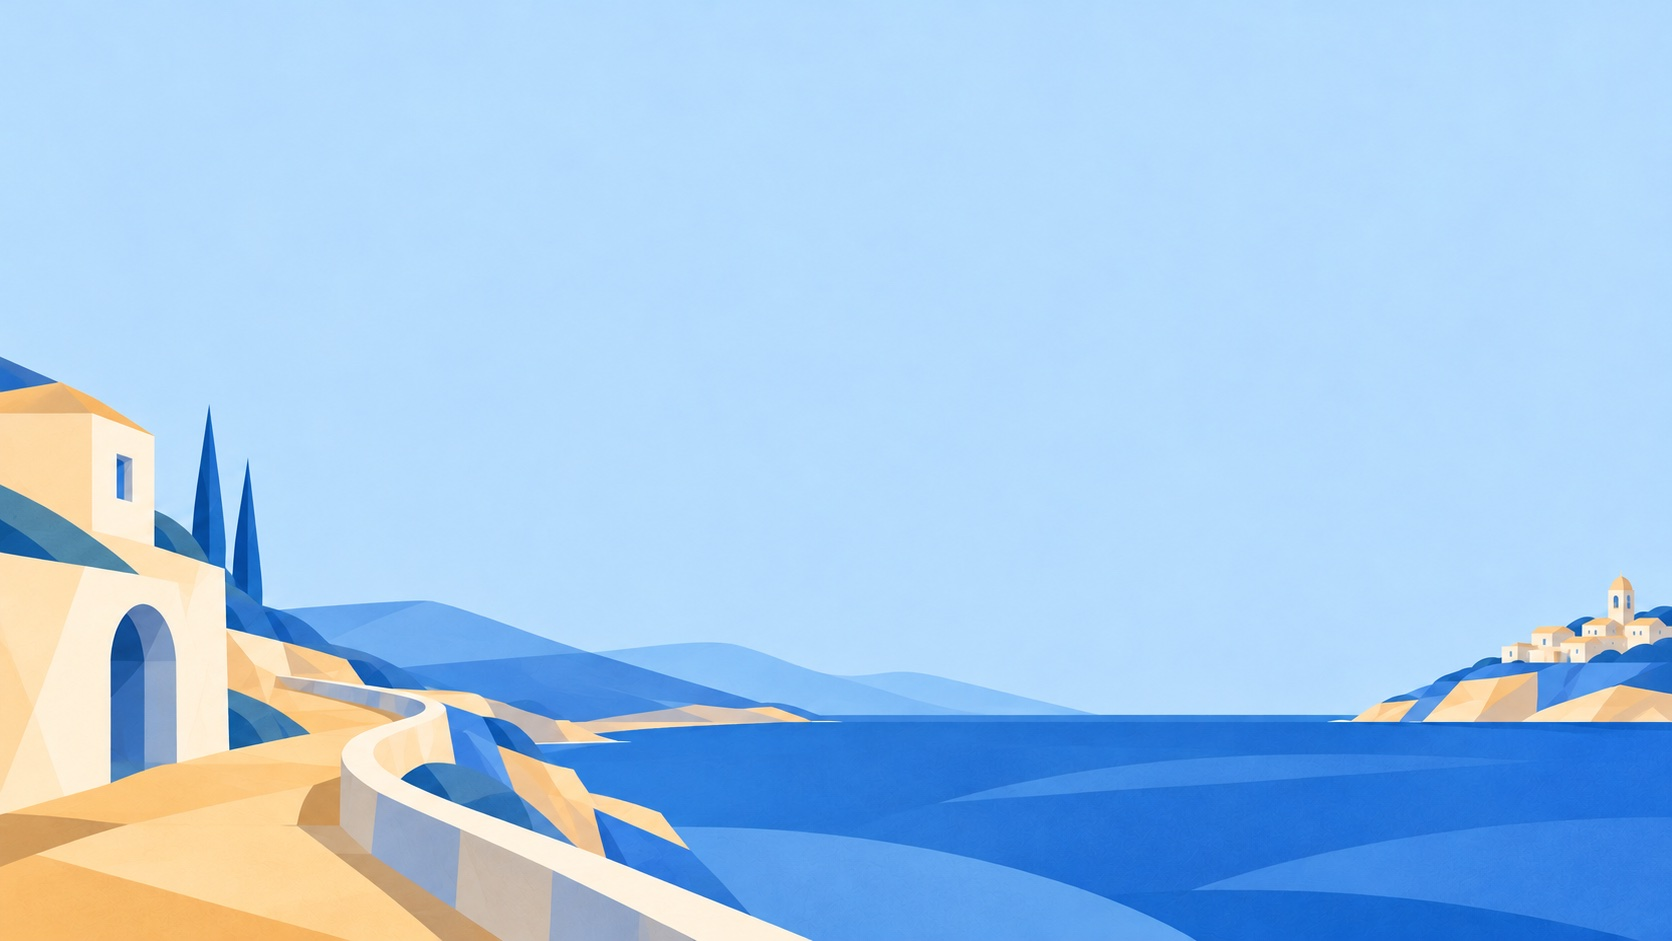
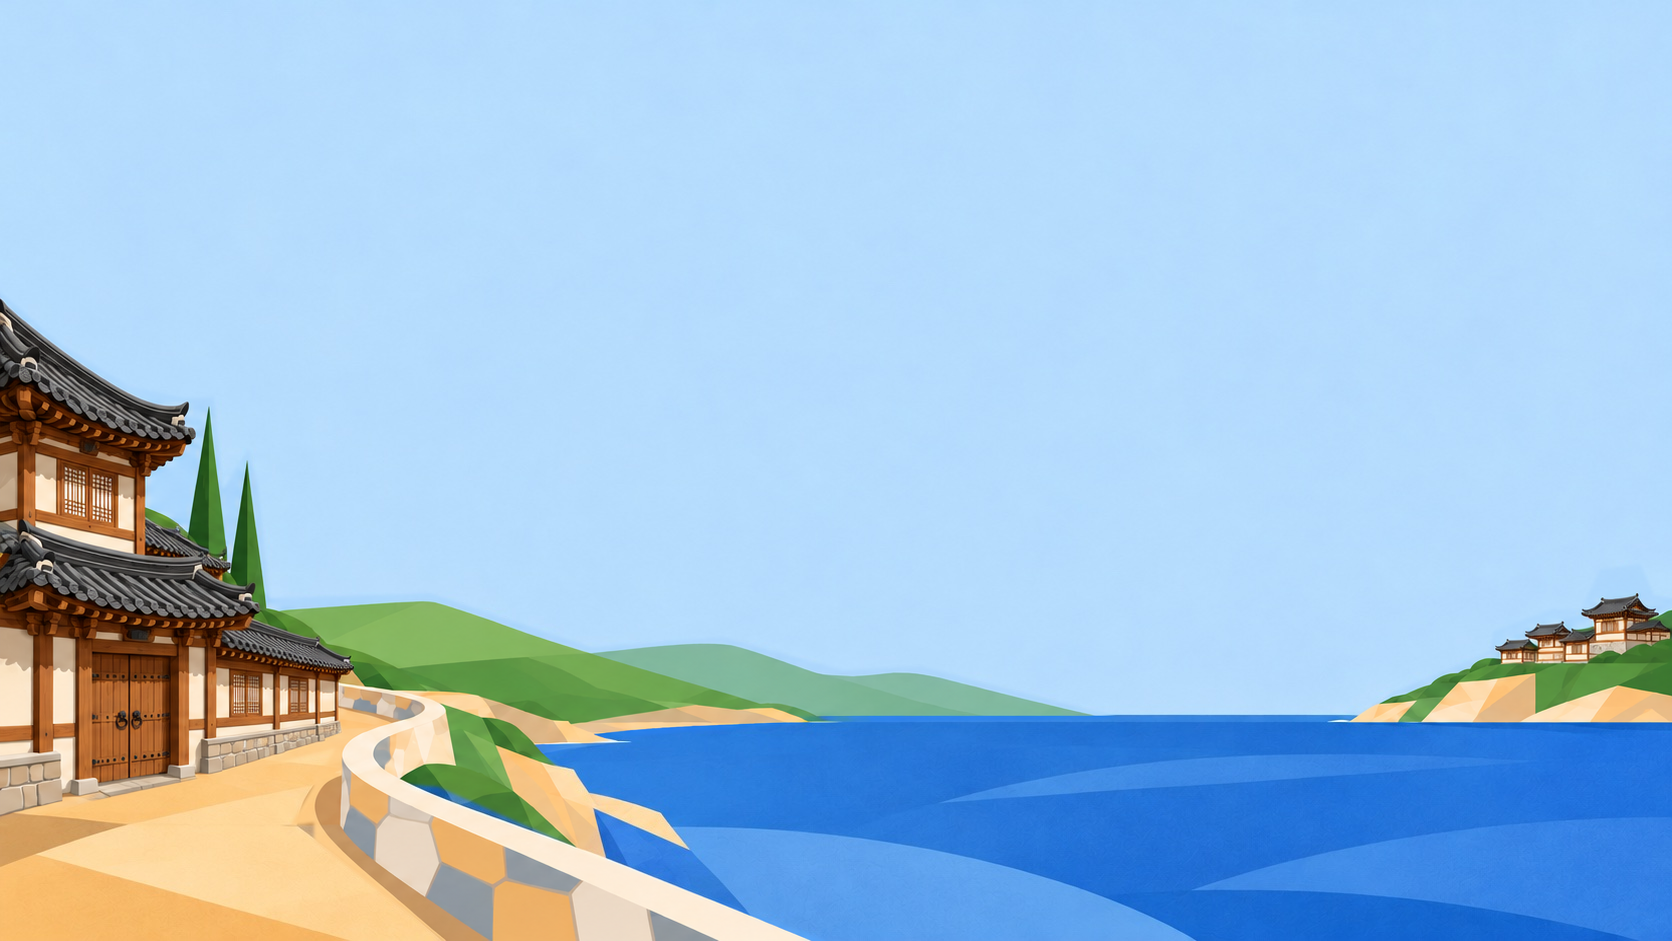
[feat] 국내 여행 사진과 한국 풍경 일러스트 적용
public/images
- 여행지 사진의 화면 비율별 WebP와 한국 풍경 배경을 추가하고 자산 목록을 갱신

TravelArtwork.tsx, matching-card-mountains.svg
- 여행 카드의 강변·섬·산 일러스트를 국내 풍경으로 조정

Related #192

Changed region(s): [[0.0, 0.3082, 0.6531, 1.0], [0.8086, 0.6164, 1.0, 0.7705], [0.4665, 0.9862, 0.4976, 1.0]]

diff --git a/frontend/src/components/ui/brand/TravelArtwork.tsx b/frontend/src/components/ui/brand/TravelArtwork.tsx
@@ -4,9 +4,13 @@ type TravelArtworkProps = {
 };
 
 export function TravelArtwork({ scene = "mountain", className = "" }: TravelArtworkProps) {
-    if (scene === "coast")
+    if (scene === "coast" || scene === "mountain")
         return (
-            <img className={`travel-artwork ${className}`} src="/images/travel-coast.jpg" alt="" />
+            <img
+                className={`travel-artwork ${className}`}
+                src={scene === "coast" ? "/images/travel-coast.jpg" : "/images/travel-highland.jpg"}
+                alt=""
+            />
         );
     return (
         <svg
@@ -21,35 +25,47 @@ export function TravelArtwork({ scene = "mountain", className = "" }: TravelArtw
             <path d="m0 0 182 0-74 108H0Z" fill="#b3cff2" opacity=".45" />
             <path d="m172 0 148 0v134L106 111Z" fill="#7ca9df" opacity=".35" />
             <path d="M0 96Q35 50 75 96Q116 23 163 96Z" fill="#f8faff" />
-            <path d="M0 142Q100 81 177 142T320 122V200H0Z" fill="#8fc1f5" />
+            <path d="M0 142Q100 81 177 142T320 122V200H0Z" fill="#88b7a0" />
             <path d="m0 172 138-64 182 67v25H0Z" fill="#426fa9" opacity=".35" />
             {scene === "city" ? (
                 <>
                     <path
-                        d="M155 17h10l7 66 15 53 34 48h-33l-28-41-28 41H99l34-48 15-53Z"
-                        fill="#2866b3"
+                        d="M0 148h21v-22h14v22h8v-36h17v36h12v-25h11v25h105v-23h20v23h10v-40h16v40h12v-29h18v29h56v52H0Z"
+                        fill="#7492ae"
                     />
-                    <path d="M135 115h50m-58 25h67m-51-55h34" stroke="#f3f8ff" strokeWidth="5" />
-                    <path d="M0 186h320v14H0Z" fill="#4a94d9" />
-                </>
-            ) : scene === "island" ? (
-                <>
-                    <path d="M0 155Q124 110 320 170v30H0Z" fill="#f7d9b5" />
-                    <path d="M117 180q24-57 10-102" fill="none" stroke="#27658e" strokeWidth="8" />
-                    <path
-                        d="M129 85Q59 72 59 119q35-24 70-34m0 0q34-66 68-20-35 0-68 20m0 0q67-12 72 33-41-31-72-33m0 0Q89 40 68 68q31 0 61 17"
-                        fill="#398ba7"
-                    />
-                    <path d="M206 167q24-10 55 0" fill="none" stroke="#fff8ed" strokeWidth="5" />
+                    <path d="M0 157q85-13 163-1t157-6v50H0Z" fill="#4183b7" />
+                    <g fill="none" stroke="#334e66">
+                        <path d="M0 147H320" strokeWidth="5" />
+                        <path
+                            d="m0 146 23-20 24 20 23-20 24 20 23-20 24 20 23-20 24 20 23-20 24 20 23-20 24 20 23-20 15 13M23 126h282"
+                            strokeWidth="3"
+                        />
+                    </g>
+                    <path d="M45 149h5v18h-5zm94 0h5v15h-5zm94 0h5v19h-5z" fill="#526d80" />
                 </>
             ) : (
                 <>
-                    <path d="M0 178 94 68l76 87 54-83 96 112v16H0Z" fill="#4e94e5" />
                     <path
-                        d="m56 113 38-45 39 45-23-8-16 14-17-14Zm139 3 29-44 35 42-22-6-13 12-15-13Z"
-                        fill="#f6f9ff"
+                        d="M0 145q50-20 90-12 31 7 65-10t73-10l20 16 32 9 40 5v13H0Z"
+                        fill="#527f70"
                     />
-                    <path d="M0 193 78 157l61 23 65-37 116 50v7H0Z" fill="#235c9a" />
+                    <path d="M0 149q100 5 188-2t132 4v49H0Z" fill="#4e9ec4" />
+                    <path
+                        d="m0 164 35-12 29 5 22-12 36 9 25 15 31 4 21 16 121 11H0Z"
+                        fill="#405862"
+                    />
+                    <path
+                        d="m0 161 35-9 29 5-15 6Zm70-6 16-10 36 9-25 6Zm65 13 12 1 31 4-11 7Z"
+                        fill="#68807d"
+                    />
+                    <path d="M0 180q85-21 171 3t149 8v9H0Z" fill="#efd6a7" />
+                    <path
+                        d="M175 164q34-5 63-2m18 4 28-2"
+                        fill="none"
+                        stroke="#d3eff1"
+                        strokeWidth="3"
+                        strokeLinecap="round"
+                    />
                 </>
             )}
         </svg>

diff --git a/frontend/public/images/README.md b/frontend/public/images/README.md
@@ -1,30 +1,51 @@
-# 여행 일러스트
+# 국내 여행 사진과 여행 일러스트
+
+## 홈 여행지 사진
+
+홈 슬라이드는 라이트 테마에서 낮·노을 사진 7장, 다크 테마에서 야경·점등 풍경 5장을 순환합니다. 최종 파일은 모두 `destinations/`에 있습니다. 제공된 JPG에서 가로 16:9(1920px·3840px)와 세로 9:16(최대 1440×2560px) WebP를 만들었습니다.
+
+| 테마   | 여행지                | 파일                                                    | 촬영자와 원본                                                 |
+| ------ | --------------------- | ------------------------------------------------------- | ------------------------------------------------------------- |
+| 라이트 | 부산 · 해운대해수욕장 | [haeundae.webp](destinations/haeundae.webp)             | [Minku Kang](https://unsplash.com/photos/ss2eCCSjSQo)         |
+| 라이트 | 제주 · 전농로 벚꽃길  | [cherryBlossoms.webp](destinations/cherryBlossoms.webp) | [Ji Seongkwang](https://unsplash.com/photos/CX7fI2LXJgo)      |
+| 라이트 | 서울 · 경복궁 향원정  | [hyangwonjeong.webp](destinations/hyangwonjeong.webp)   | [Louie Nicolo Nimor](https://unsplash.com/photos/1Tf8X648BfA) |
+| 라이트 | 부산 · 감천문화마을   | [gamcheon.webp](destinations/gamcheon.webp)             | [Sean Lee](https://unsplash.com/photos/Jr8as6DTews)           |
+| 라이트 | 경주 · 첨성대 일대    | [pinkMuhly.webp](destinations/pinkMuhly.webp)           | [Dmitry Voronov](https://unsplash.com/photos/y5GM2u8cCiA)     |
+| 라이트 | 부산 · 광안대교       | [gwanganDay.webp](destinations/gwanganDay.webp)         | [Christopher Lee](https://unsplash.com/photos/ZaMyD-31snk)    |
+| 라이트 | 경주 · 인왕동 첨성대  | [sunsetFlowers.webp](destinations/sunsetFlowers.webp)   | [Taisia Karaseva](https://unsplash.com/photos/2L5lTezAh1M)    |
+| 다크   | 서울 · N서울타워      | [namsan.webp](destinations/namsan.webp)                 | [Hyeok Jang](https://www.pexels.com/photo/31414677/)          |
+| 다크   | 경주 · 동궁과 월지    | [donggung.webp](destinations/donggung.webp)             | [John Ko](https://unsplash.com/photos/mgVMtZiOaeo)            |
+| 다크   | 부산 · 광안대교       | [gwanganNight.webp](destinations/gwanganNight.webp)     | [Sehoon Ye](https://unsplash.com/photos/UJkVOzI8wQo)          |
+| 다크   | 서울 · 광장시장       | [gwangjang.webp](destinations/gwangjang.webp)           | [Mike Swigunski](https://unsplash.com/photos/dbUCy23Bn8g)     |
+| 다크   | 서울 · 광화문         | [gwanghwamun.webp](destinations/gwanghwamun.webp)       | [Zero Take](https://unsplash.com/photos/L2Q6kH8dwug)          |
+
+원본 제공처의 이용 조건은 [Unsplash](https://unsplash.com/license)와 [Pexels](https://www.pexels.com/license/)에서 확인할 수 있습니다.
+
+## 여행 일러스트
 
 상위 시각 기준은 [스타일 가이드북](../../STYLE_GUIDE.md)입니다. 아래 그림은 #86의 재사용 디자인
 자산이며 화면 캡처가 아닙니다. 사용자 참고 디자인을 기준으로 내장 `image_gen` 도구로 생성하고
-JPEG로 최적화했습니다. 이미지에 문구·버튼·UI를 넣지 않고 실제 화면에서 조합합니다.
+여행 카드와 상태 화면의 이미지는 JPEG로 최적화했습니다. 이미지에 문구·버튼·UI를 넣지 않고 실제 화면에서 조합합니다.
 
-| 자산                                       | 용도                     | 시각 기준                                                                         |
-| ------------------------------------------ | ------------------------ | --------------------------------------------------------------------------------- |
-| [travel-coast.jpg](travel-coast.jpg)       | 홈 히어로·해안 여행 카드 | 파랑·하늘색·모래색, 비대칭 큰 색면·원호·직선, 바다·돛단배·기하학 건물·분할된 태양 |
-| [travel-dusk.jpg](travel-dusk.jpg)         | 404 배경 카드            | 같은 면 분할 풍경을 네이비·보랏빛 파랑·살구·테라코타의 황혼으로 변주              |
-| [travel-highland.jpg](travel-highland.jpg) | 오류·재시도 배경 카드    | 푸른 설산과 모래길을 큰 큐비즘 면으로 구성                                        |
-| [travel-horizon.jpg](travel-horizon.jpg)   | 로딩 배경 카드           | 잔잔한 호수·큰 구릉·떠오르는 해를 단순한 수평 면으로 구성                         |
+| 자산                                       | 용도                  | 시각 기준                                                 |
+| ------------------------------------------ | --------------------- | --------------------------------------------------------- |
+| [sayroam-coast.png](sayroam-coast.png)     | 롬 메이트 공용 배경   | 파란 해안의 기와지붕과 굽은 돌담길                        |
+| [travel-coast.jpg](travel-coast.jpg)       | 해안 여행 카드        | 남해안의 푸른 섬과 어촌·방파제 등대·돛단배                |
+| [travel-dusk.jpg](travel-dusk.jpg)         | 404 배경 카드         | 갯벌의 물길과 갈대, 낮은 돌제방에 비친 서해 낙조          |
+| [travel-highland.jpg](travel-highland.jpg) | 오류·재시도 배경 카드 | 화강암 암릉과 솔숲을 가로지르는 산길                      |
+| [travel-horizon.jpg](travel-horizon.jpg)   | 로딩 배경 카드        | 잔잔한 호수·큰 구릉·떠오르는 해를 단순한 수평 면으로 구성 |
 
 ![해안 일러스트](travel-coast.jpg)
 
 ![황혼 일러스트](travel-dusk.jpg)
 
-![설산 오류 일러스트](travel-highland.jpg)
+![산길 오류 일러스트](travel-highland.jpg)
 
 ![수평선 로딩 일러스트](travel-horizon.jpg)
 
-해안 생성 기준: 큰 삼각형·원호·각진 면이 겹치는 모던 아트 여행 풍경, 중앙의 바다와 단순한
-돛단배, 오른쪽의 그리스 건물과 반으로 나뉜 태양, 왼쪽의 밝은 문구 여백을 사용합니다.
-황혼은 동일한 기하학 구조에서 남색 바다·살구빛 하늘·따뜻한 건물 면으로 시간을 표현합니다.
-설산·수평선은 기존 해안 일러스트를 스타일 참고로 사용해 생성하고 JPEG 품질 88로 최적화했습니다.
-설산은 푸른 산과 밝은 모래길, 수평선은 평온한 호수와 떠오르는 해를 중심으로 같은 면 분할을 유지합니다.
-사진 질감·꽃 장식·동화풍 인물·문자·UI는 넣지 않습니다.
+각 그림은 기존 3:1 구도와 왼쪽 문구 여백을 살려 ImageGen으로 편집하고 JPEG 품질 88로 저장했습니다.
+해안과 황혼에는 남해 어촌과 서해 갯벌을, 산길과 수평선에는 화강암 봉우리와 새벽 호수를 담았습니다.
+도시와 섬 카드에는 강을 건너는 철교와 현무암 해안을 단순한 실루엣으로 표시합니다.
 
 크롭할 때 밝은 문구 영역과 주요 실루엣을 확인합니다. 상태 화면은
 [공용 PageState](../../src/components/ui/feedback/PageState.tsx)가 소유하고 아래 배경을
@@ -40,5 +61,3 @@ JPEG로 최적화했습니다. 이미지에 문구·버튼·UI를 넣지 않고 
 카드의 장식 그림은 공용 `TravelArtwork`로 조합합니다. 새 그림은 같은 구도 규칙과 팔레트로
 확장하고 기존 그림을 무관한 스타일로 교체하지 않습니다. 화면 검증 캡처는 PR에 첨부하고
 이 디렉터리에 추가하지 않습니다.
-
-`travel-companion-coast.jpg`는 동행 찾기 첫 화면 배경입니다. 넓은 하늘 여백과 해안길·바다·건축물을 파랑·하늘색·모래색의 큰 면으로 구성한 큐비즘 풍경이며, 내장 이미지 생성 도구로 제작하고 JPEG로 최적화했습니다. 제목·카드·버튼은 이미지에 포함하지 않습니다.
